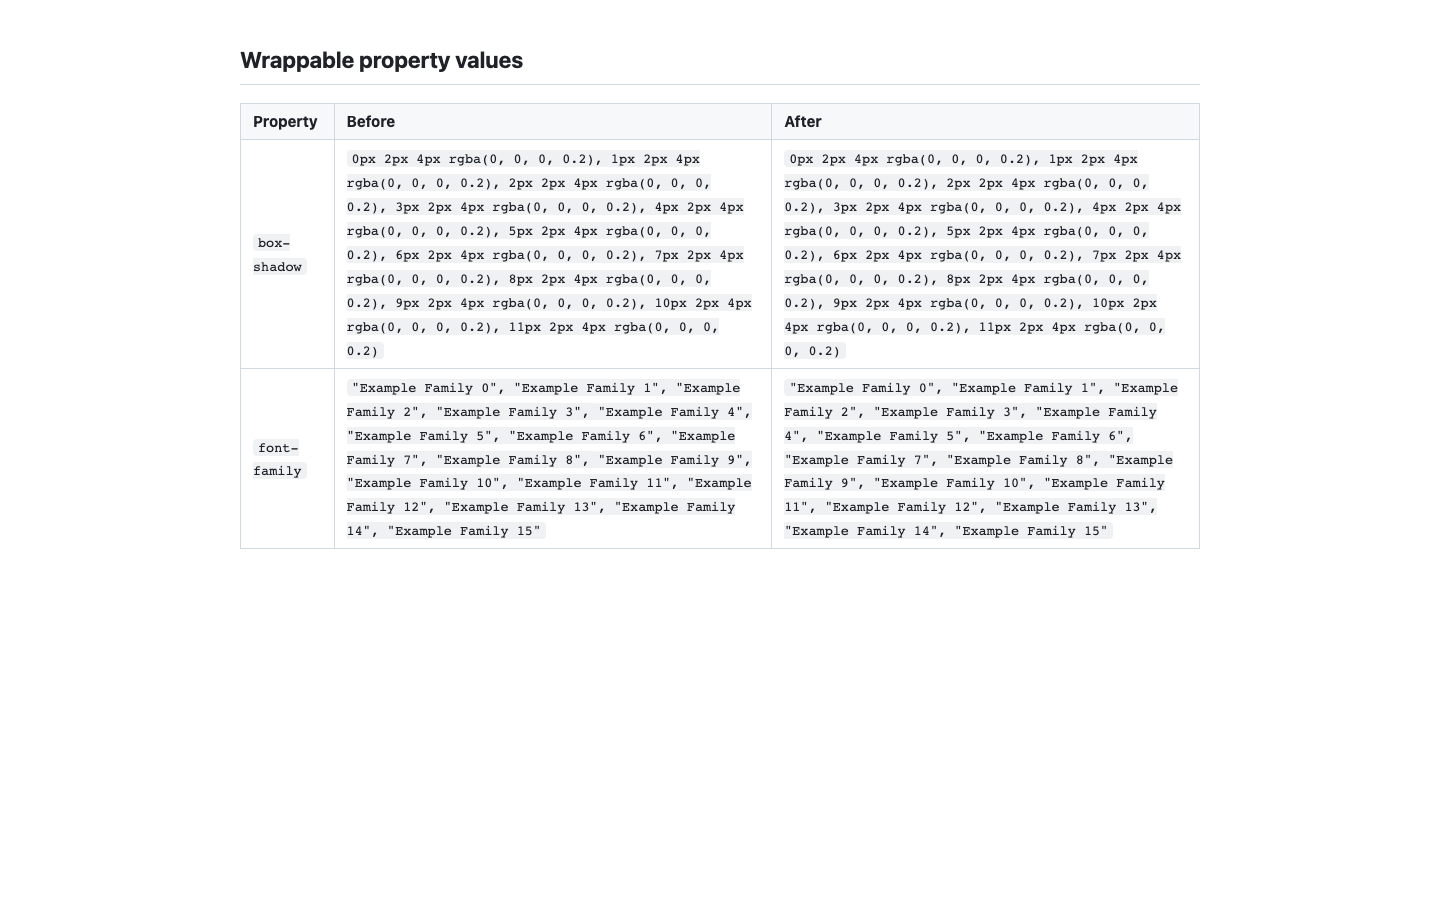
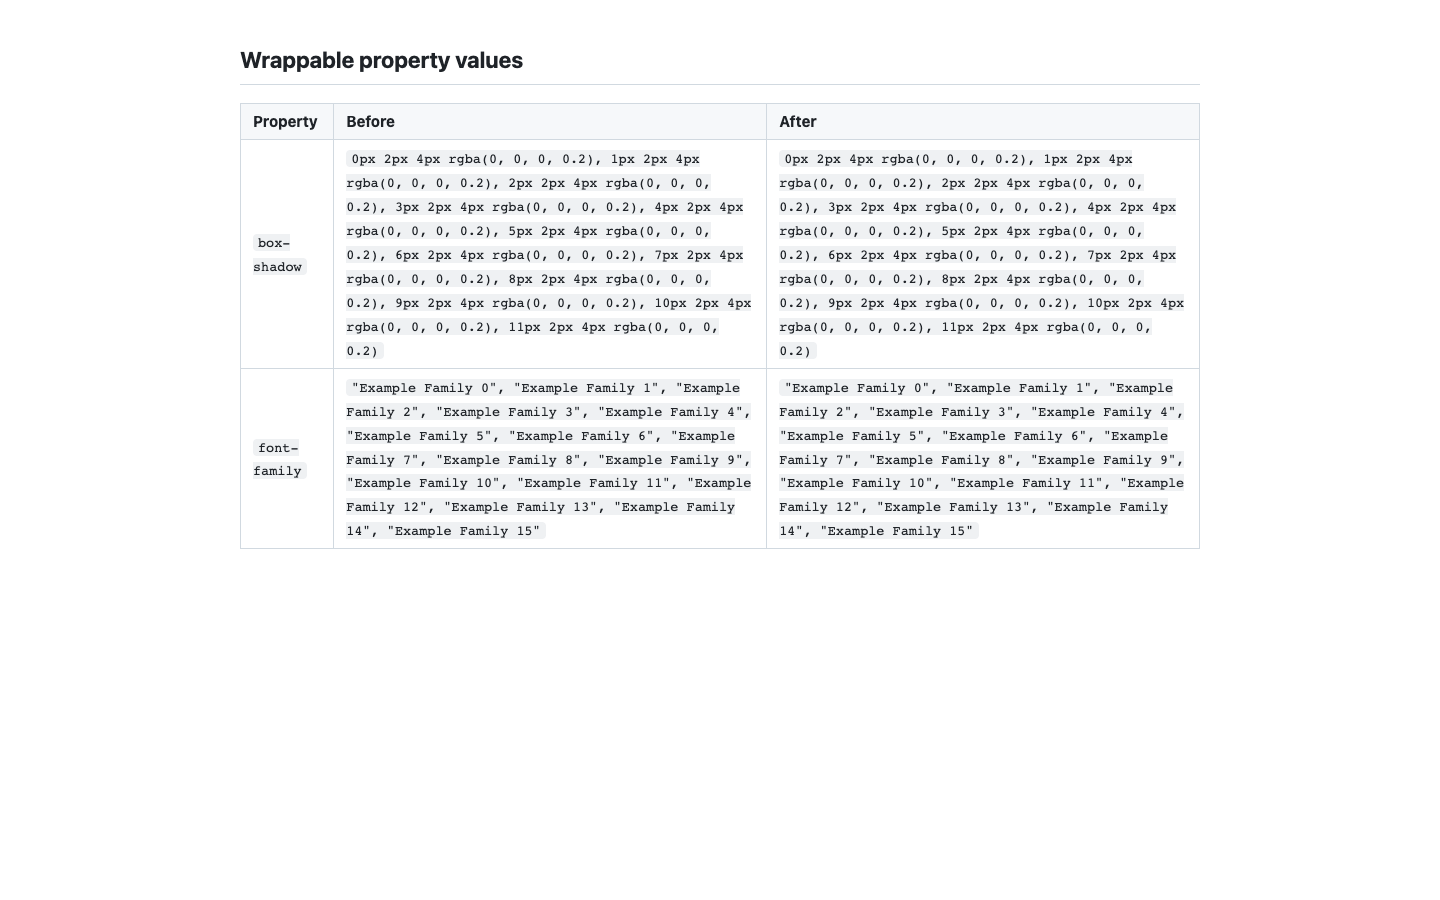
fix(report): preserve native table column sizing

diff --git a/test/report-html-tables.e2e.spec.ts b/test/report-html-tables.e2e.spec.ts
@@ -76,6 +76,25 @@ for (const width of [768, 1440]) {
   });
 }
 
+test('a fitting hyphenated reach row keeps main’s columns and height at 1440px', async ({ page }) => {
+  const selector = '.' + Array(10).fill('longhyphenatedselector').join('-');
+  await page.setViewportSize({ width: 1440, height: 900 });
+  await page.setContent(
+    renderReportHtml(
+      '| Rule | Change | Gated by | Source | Why |\n| --- | --- | --- | --- | --- |\n' +
+        `| \`${selector}\` | changed | — | \`/styles.css\` | its selector never matched |`,
+    ),
+  );
+  const table = page.getByRole('table');
+  const bounds = await table.boundingBox();
+  const sourceLines = await table
+    .getByText('/styles.css', { exact: true })
+    .evaluate((element) => element.getClientRects().length);
+  expect(await table.evaluate((element) => element.scrollWidth - element.clientWidth)).toBe(0);
+  expect(bounds).toEqual(await mainTableBounds(table));
+  expect(sourceLines).toBe(1);
+});
+
 const spacedValues = [
   {
     property: 'box-shadow',
@@ -135,7 +154,9 @@ test('code-like text inside link and image attributes stays intact', async ({ pa
     ),
   );
   const link = page.getByRole('link', { name: 'x' });
-  await expect(link).toHaveAttribute('href', `<code>${value}</code>`);
-  expect(await link.evaluate((element) => element.attributes.length)).toBe(1);
-  await expect(page.locator('img')).toHaveAttribute('alt', `<code>${value}</code>`);
+  expect(await link.evaluate((element) => element.getAttributeNames())).toEqual(['href']);
+  expect(await link.getAttribute('href')).toContain(value);
+  const image = page.locator('img');
+  expect(await image.evaluate((element) => element.getAttributeNames())).toEqual(['src', 'alt', 'loading']);
+  expect(await image.getAttribute('alt')).toContain(value);
 });

diff --git a/src/report/html.ts b/src/report/html.ts
@@ -229,7 +229,7 @@ export function renderReportHtml(markdown: string, options?: { outDir: string; m
     background-repeat: no-repeat;
     background-attachment: local, local, scroll, scroll; }
   .table-scroll:focus-visible { outline: 2px solid oklch(0.55 0.18 255); outline-offset: 2px; }
-  .table-scroll code { overflow-wrap: anywhere; }
+  .table-scroll code { overflow-wrap: break-word; }
   table { border-collapse: collapse; }
   th, td { border: 1px solid #d1d9e0; padding: 6px 12px; text-align: left; }
   th { background: #f6f8fa; }

diff --git a/docs/demo/report.html b/docs/demo/report.html
@@ -22,7 +22,7 @@
     background-repeat: no-repeat;
     background-attachment: local, local, scroll, scroll; }
   .table-scroll:focus-visible { outline: 2px solid oklch(0.55 0.18 255); outline-offset: 2px; }
-  .table-scroll code { overflow-wrap: anywhere; }
+  .table-scroll code { overflow-wrap: break-word; }
   table { border-collapse: collapse; }
   th, td { border: 1px solid #d1d9e0; padding: 6px 12px; text-align: left; }
   th { background: #f6f8fa; }

diff --git a/CHANGELOG.md b/CHANGELOG.md
@@ -26,8 +26,6 @@ this project adheres to [Semantic Versioning](https://semver.org/spec/v2.0.0.htm
   handling stays unchanged. Tab, LF and CR no longer hide URL traversal.
   Source and sourceRoot also trim edge ASCII controls and spaces and normalize
   backslashes before classification, so padded absolute paths resolve project-relative.
-- HTML report tables scroll in their own keyboard-accessible boxes on narrow screens, with scroll-edge shadows and bounded long code values.
-- HTML report tables scroll in their own boxes on narrow screens, with scroll-edge shadows, natural code wrapping and native overflow-only keyboard focus in Chromium and Firefox.
 - Capture and CI browser installation prefer the project's Playwright over a global copy on PATH (#1259).
 - Config-loading children suppress Node's generated-config module-type and type-stripping
   warnings in CommonJS projects while preserving other warnings and user `NODE_OPTIONS` (#1258).
@@ -168,6 +166,8 @@ this project adheres to [Semantic Versioning](https://semver.org/spec/v2.0.0.htm
   with a re-run description (#1146, #1264, #1265).
 - Later-attempt receipts need a bot or repository write permission, so read-only members and
   collaborators cannot suppress delivery; reviewer ticks wait for the run (#1147).
+
+- HTML report tables scroll in their own boxes on narrow screens, with scroll-edge shadows, natural code wrapping and native overflow-only keyboard focus in Chromium and Firefox.
 
 ### Security
 
